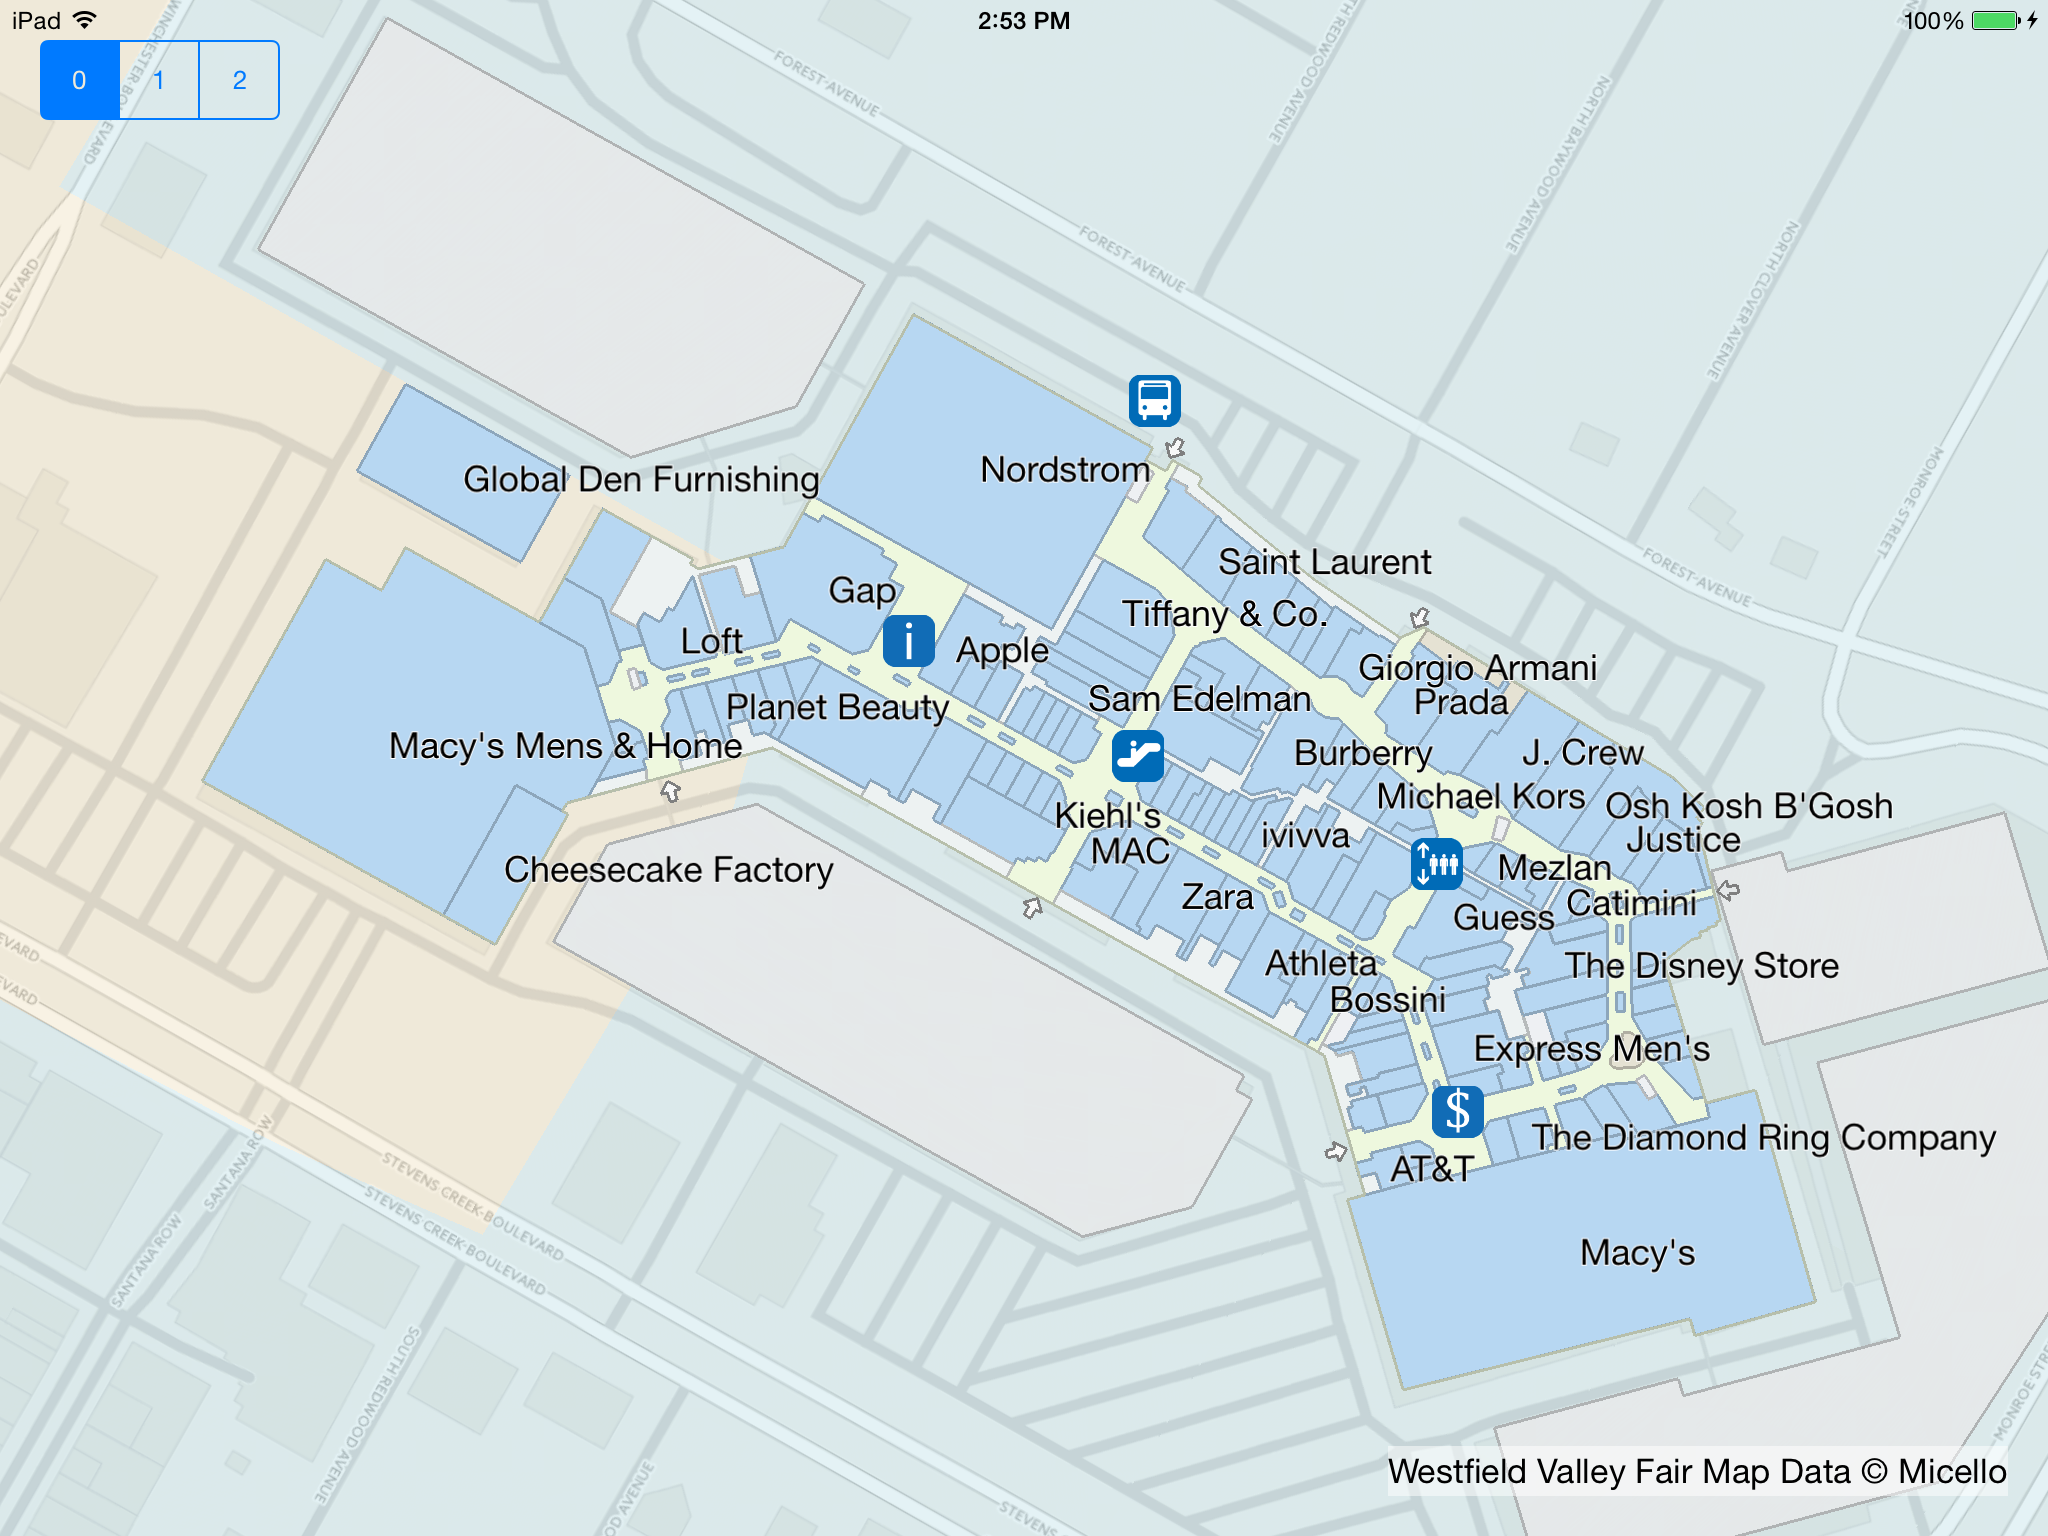
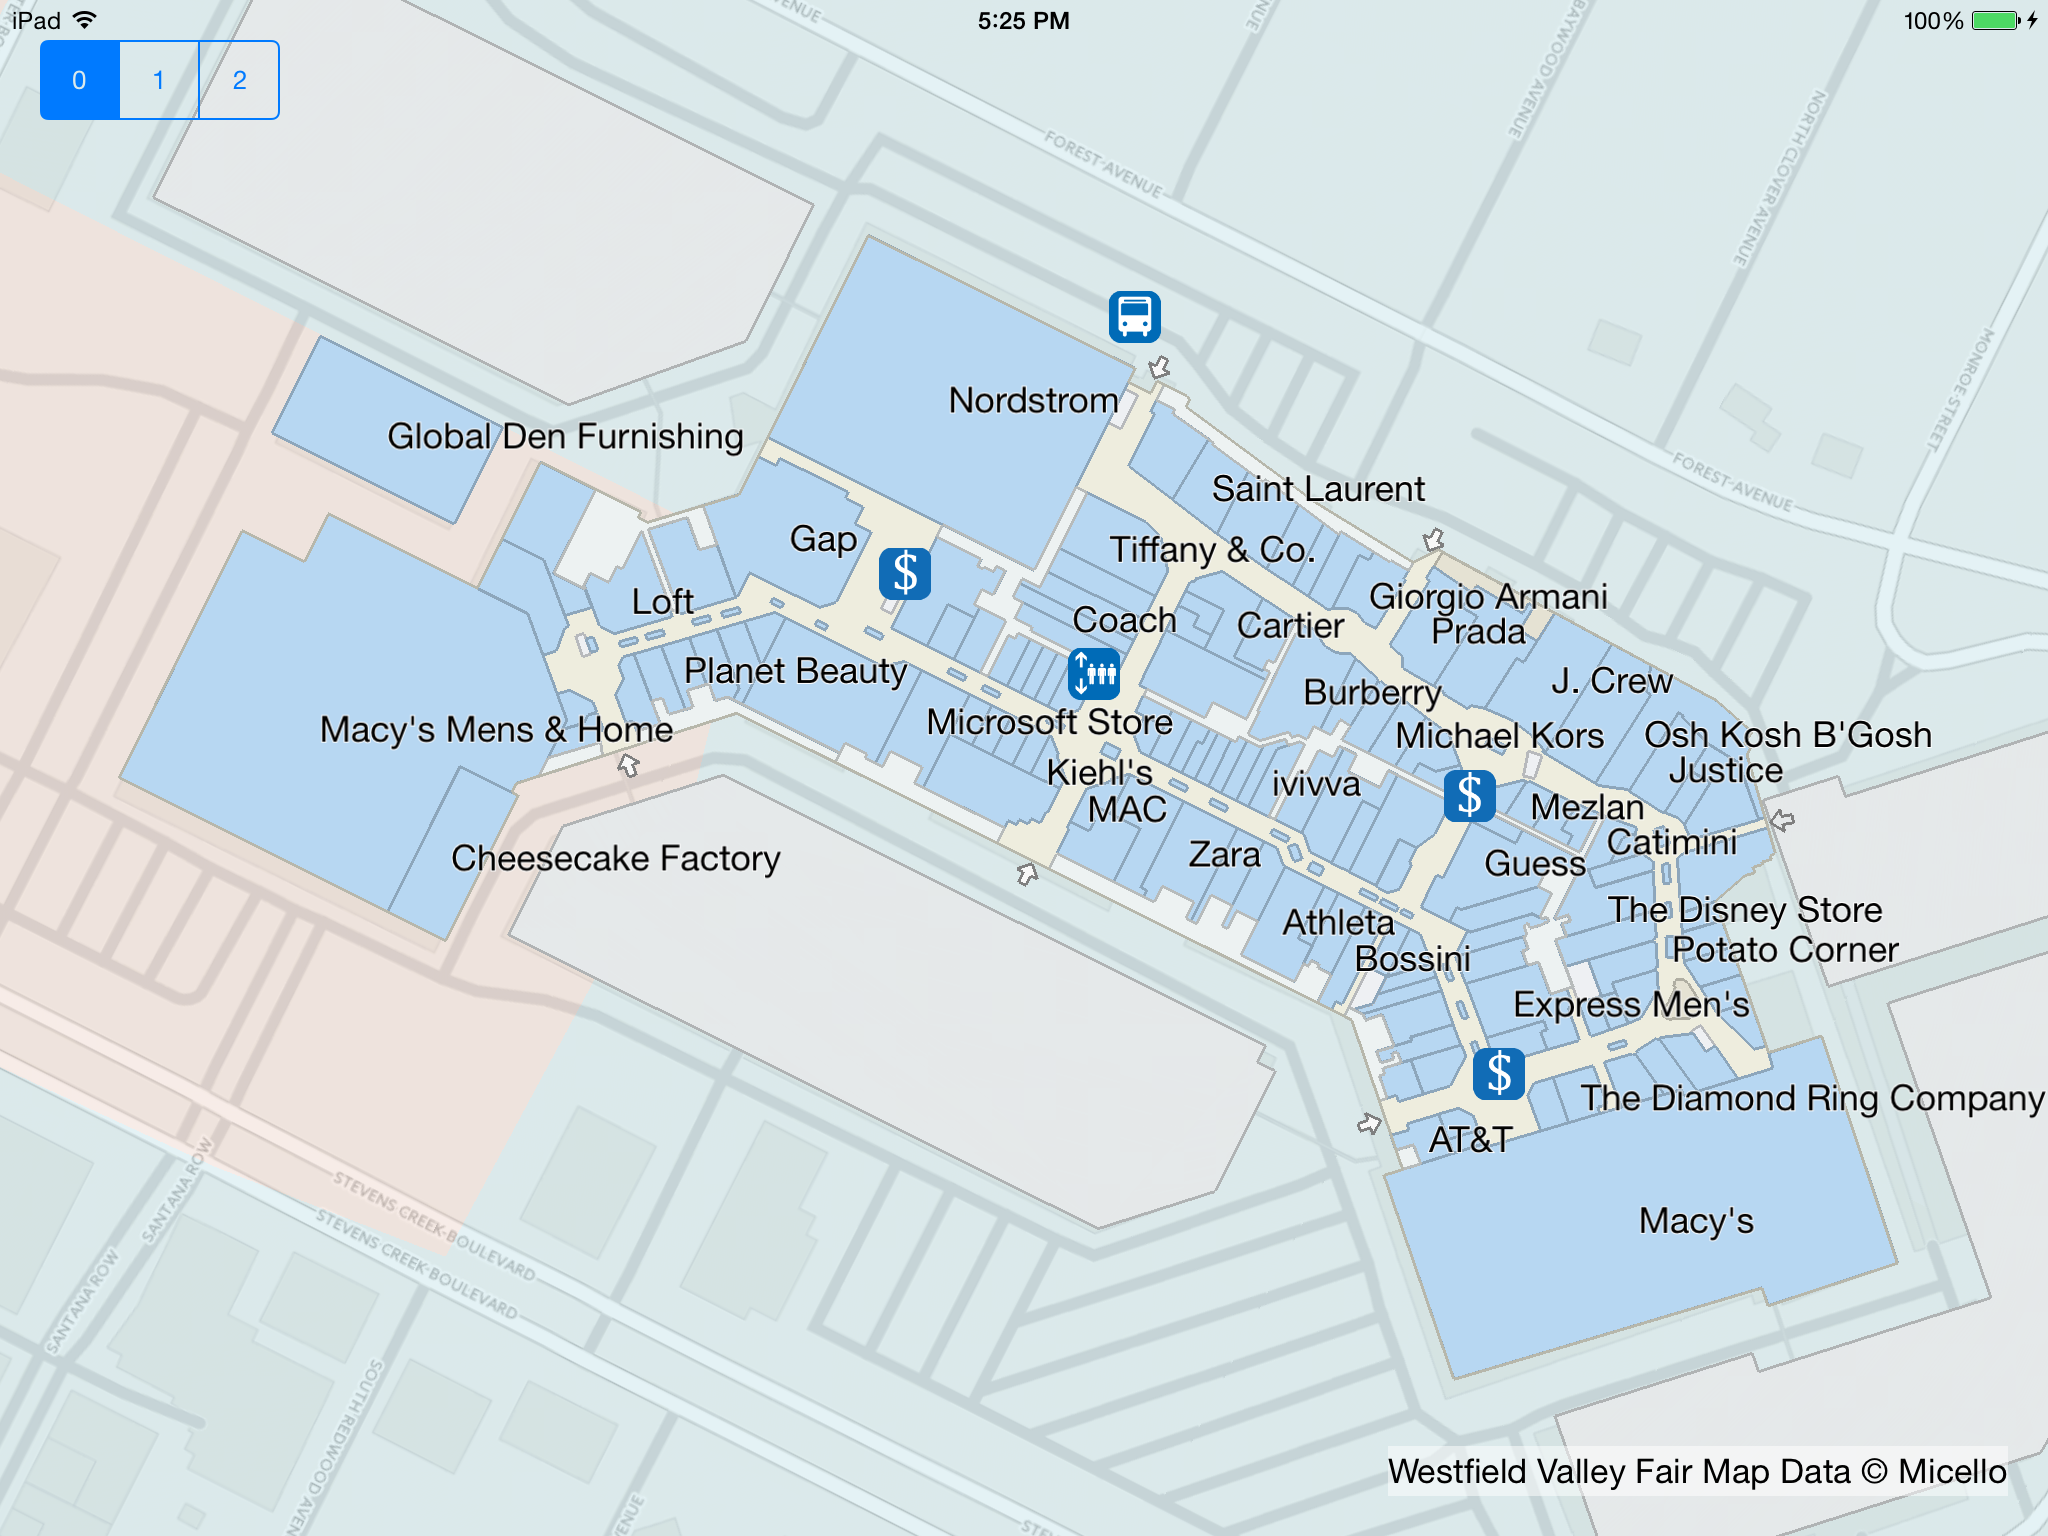
micello demo

diff --git a/tutorial/code/micello_map/MaplyMicelloMap.m b/tutorial/code/micello_map/MaplyMicelloMap.m
@@ -276,7 +276,7 @@
     // Add default styles.  The order that these rules are added establishes their order of evaluation (the first rule that matches for a particular geometry wins).  The draw priorities are important for having overlapping geometries display in the correct order.
     
     [self addStyleRule:[[MaplyMicelloStyleRule alloc] initWithKey:@"is_root" value:@(YES) desc:@{kMaplyDrawPriority:@(_baseDrawPriority)}]];
-    [self addStyleRule:[[MaplyMicelloStyleRule alloc] initWithKey:@"$style" value:@"Background" desc:@{kMaplyDrawPriority:@(_baseDrawPriority+1), kMaplyColor:[UIColor colorWithRed:0.961 green:9.957 blue:0.898 alpha:1.0]}]];
+    [self addStyleRule:[[MaplyMicelloStyleRule alloc] initWithKey:@"$style" value:@"Background" desc:@{kMaplyDrawPriority:@(_baseDrawPriority+1), kMaplyColor:[UIColor colorWithRed:0.961 green:0.957 blue:0.898 alpha:1.0]}]];
     [self addStyleRule:[[MaplyMicelloStyleRule alloc] initWithKey:@"meta" value:@"level outline" desc:@{kMaplyDrawPriority:@(_baseDrawPriority+2)}]];
 
     

diff --git a/tutorial/micello_map.md b/tutorial/micello_map.md
@@ -179,7 +179,7 @@ Here we will overlay the city boundaries over top of the mall map, to display wh
     NSString *path = [[NSBundle mainBundle] pathForResource:@"SantaClaraBoundary" ofType:@"geojson"];
     MaplyVectorObject *santaClaraVecObj = [MaplyVectorObject VectorObjectFromGeoJSON:[[NSFileManager defaultManager] contentsAtPath:path]];
     santaClaraCompObj = [globeVC addVectors:@[santaClaraVecObj] desc:@{
-                                                               kMaplyVecTexture:    [UIImage imageNamed:@"bgYellow.png"],
+                                                               kMaplyVecTexture:    [UIImage imageNamed:@"bgOrange.png"],
                                                                kMaplyDrawPriority:  @(400),
                                                                kMaplyFilled:        @(YES)}];
     
